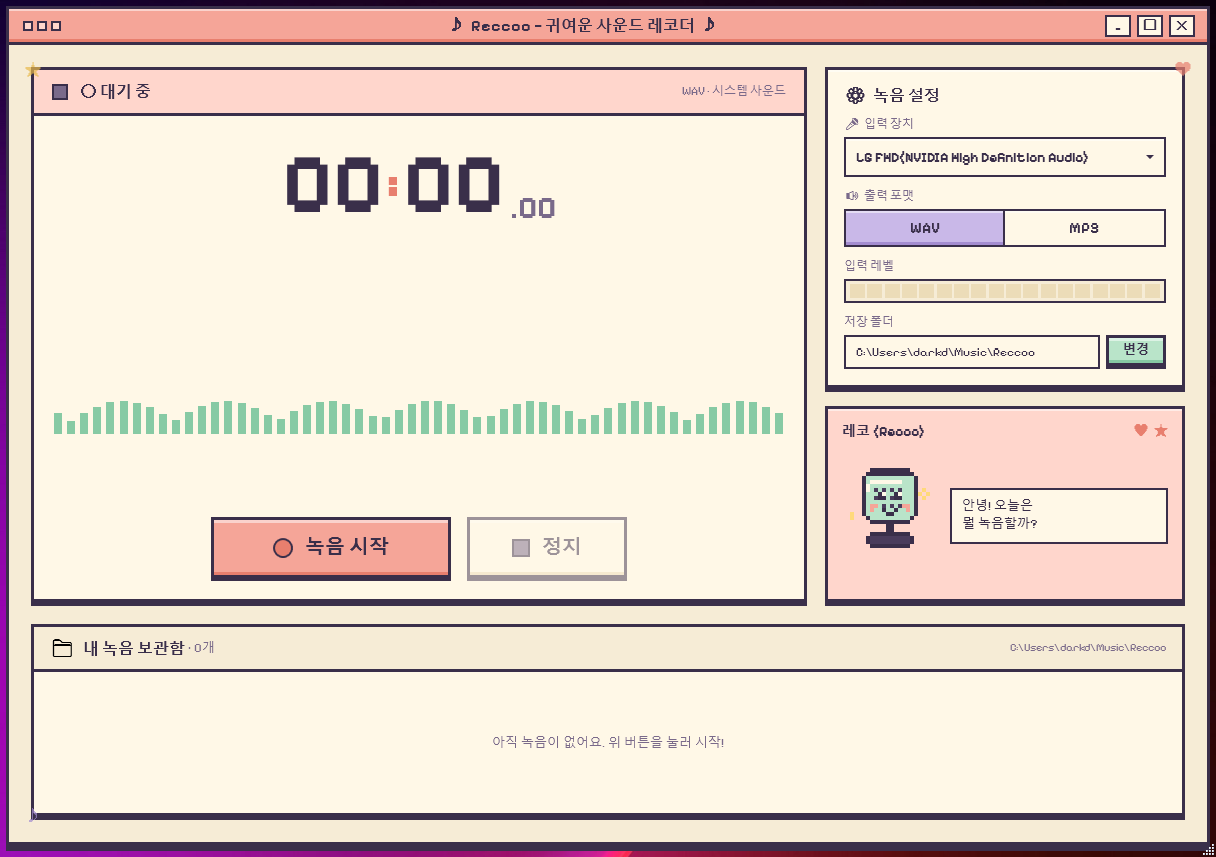
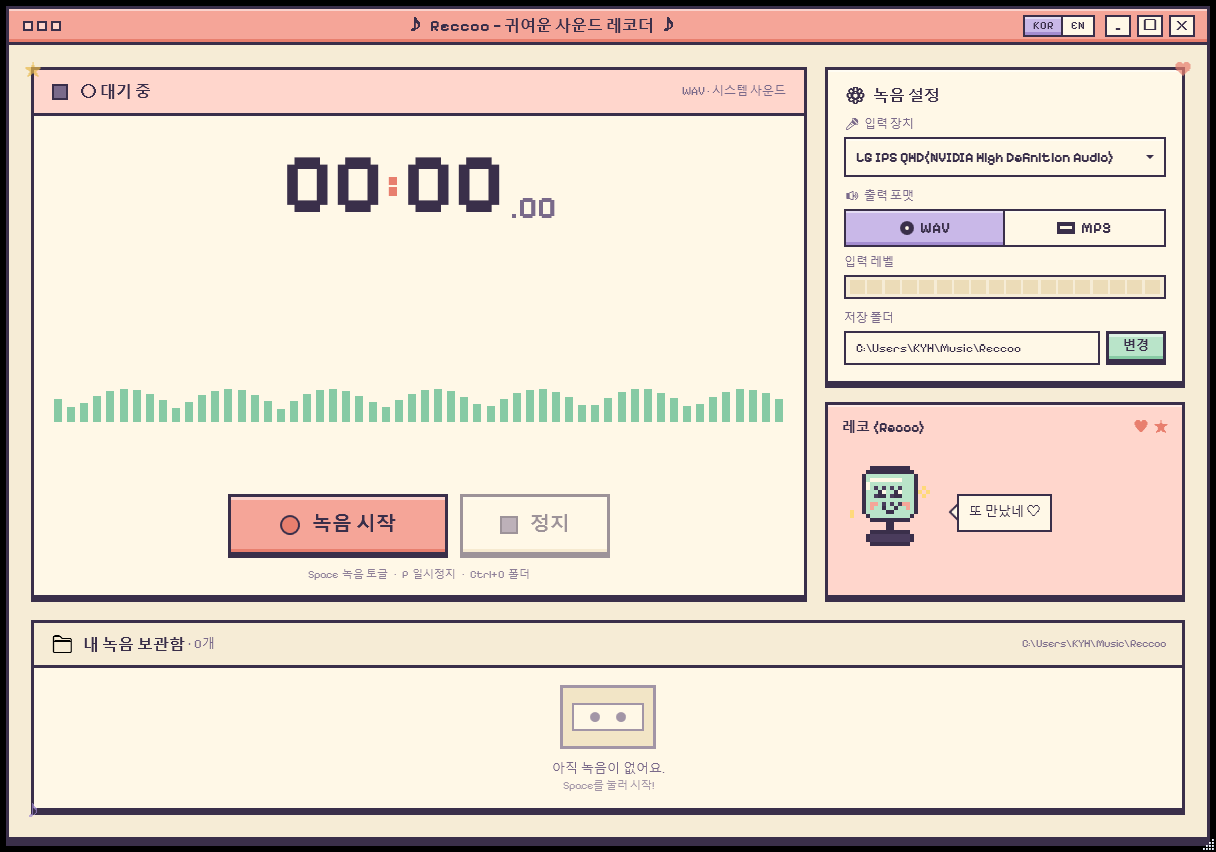
Taller default window so the library panel isn't clipped; fresh screenshot
Right-column fixed content needed ~830px but the window opened at 820,
shaving the library's bottom border. 852 default / 840 minimum.
Screenshot updated to the current UI (KOR|EN toggle, no theme button).

diff --git a/MainWindow.xaml b/MainWindow.xaml
@@ -6,8 +6,8 @@
         xmlns:local="clr-namespace:Reccoo"
         mc:Ignorable="d"
         Title="Reccoo"
-        Width="1216" Height="820"
-        MinWidth="1080" MinHeight="720"
+        Width="1216" Height="852"
+        MinWidth="1080" MinHeight="840"
         WindowStartupLocation="CenterScreen"
         WindowStyle="None"
         AllowsTransparency="True"
